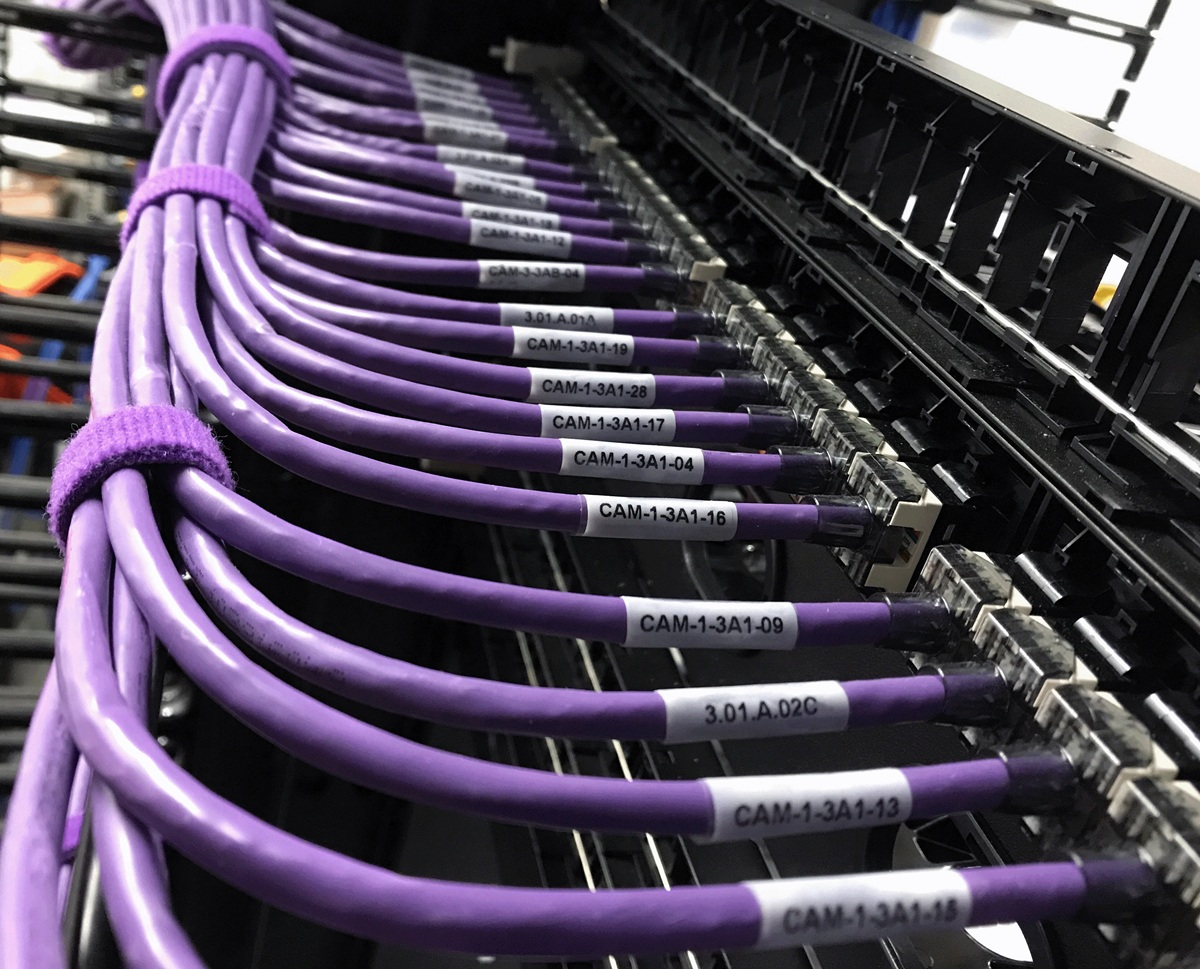
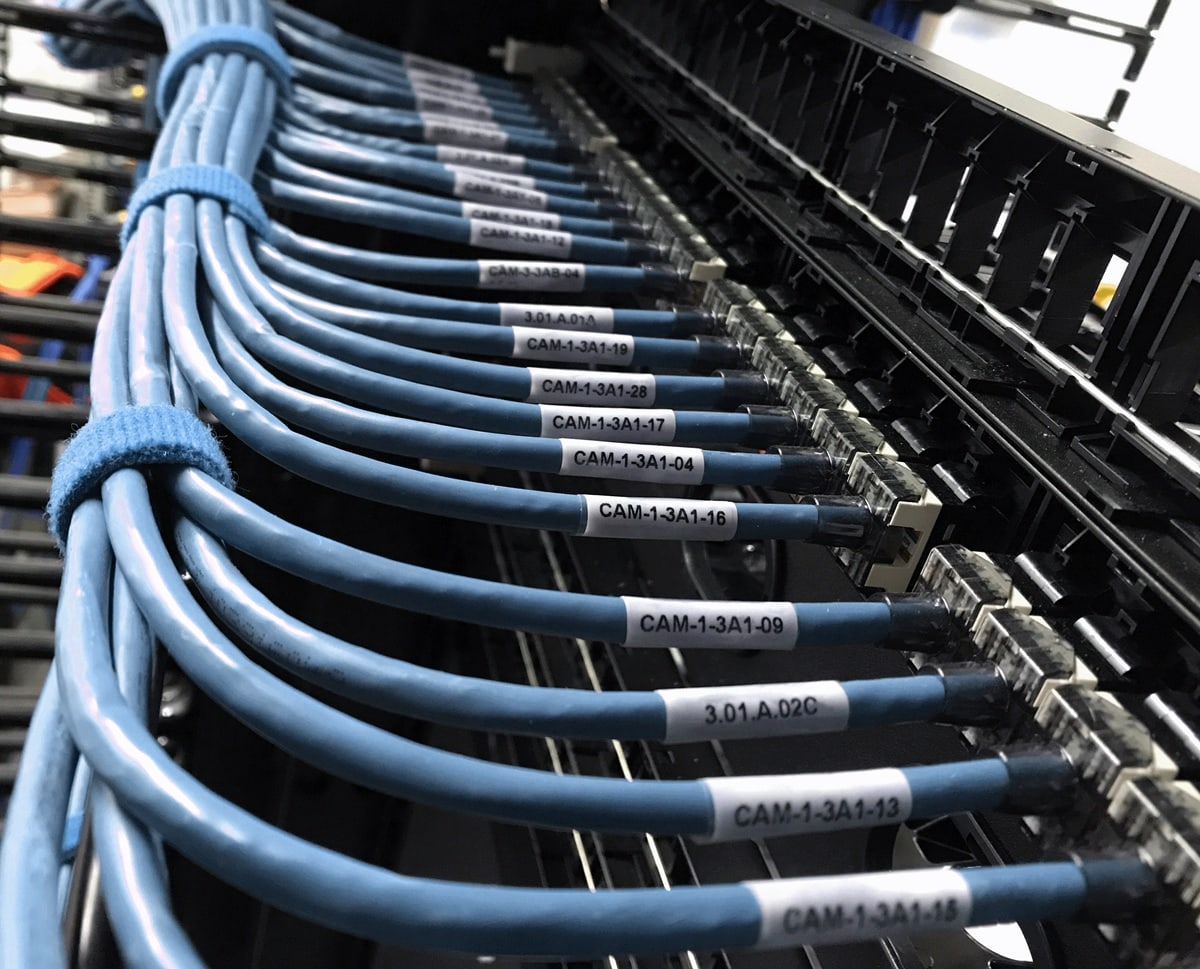
Hero: lobby camera view; cabling photo recolored to brand blue

diff --git a/src/components/Hero.tsx b/src/components/Hero.tsx
@@ -86,14 +86,19 @@ export default function Hero() {
           <figure className="relative rounded-xl overflow-hidden bg-brand-panel ring-1 ring-white/10 shadow-2xl shadow-black/50">
             <div className="relative aspect-[16/10] w-full max-w-full">
               <Image
-                src="/Assets/surv4.png"
-                alt="Dome security camera installed in a commercial building"
+                src="/Assets/hero-lobby.jpg"
+                alt="Security camera view of an apartment building lobby"
                 fill
                 priority
-                className="object-cover object-[70%_center] saturate-[0.85]"
+                className="object-cover object-center saturate-[0.9]"
                 sizes="(max-width: 1024px) 100vw, 50vw"
               />
-              <div aria-hidden="true" className="absolute inset-0 bg-brand-navy/25 mix-blend-multiply" />
+              <div aria-hidden="true" className="absolute inset-0 bg-brand-navy/15 mix-blend-multiply" />
+              {/* Darken top/bottom edges so the HUD reads over the chairs and ceiling */}
+              <div
+                aria-hidden="true"
+                className="absolute inset-0 bg-gradient-to-b from-brand-dark/35 via-transparent via-30% to-brand-dark/45"
+              />
               <div aria-hidden="true" className="absolute inset-0 scanlines" />
               <div aria-hidden="true" className="absolute inset-3 sm:inset-4 feed-corners opacity-80" />
 

diff --git a/CLAUDE.md b/CLAUDE.md
@@ -37,7 +37,7 @@ Site institucional da **DTX Solution** — empresa de tecnologia, segurança e T
 ├── public/
 │   └── Assets/                  # Imagens e logos
 │       ├── logo_2025_Icon.png   # Ícone transparente (usado em navbar e footer)
-│       ├── surv4.png            # Card de câmeras de segurança
+│       ├── hero-lobby.jpg       # Hero: visão de câmera do lobby (IA)
 │       ├── tv_orbis.png         # Card Orbis
 │       ├── coding.png           # Card desenvolvimento web
 │       ├── Intercom.png         # Card intercomunicação
@@ -161,10 +161,10 @@ nav, hero (specs[], feed), services.items[], process.steps[], trust (items[], st
 ## Serviços (ordem de exibição)
 
 ### Linha superior — cards featured (lado a lado, lg:grid-cols-2)
-1. **Security Cameras** (id: `cameras`) — tema azul, imagem `surv4.png`
+1. **Security Cameras** (id: `cameras`) — tema azul, imagem `surv2.png`
 2. **Orbis for Buildings** (id: `orbis`) — tema aço (`brand.mist`), imagem `tv_orbis.png`, badge "Subscription"
 
-(Cameras usa `surv2.png`; o Hero usa `surv4.png` como "feed de câmera" com HUD.)
+(O Hero usa `hero-lobby.jpg` (IA) como "feed de câmera" com HUD. `cabling.jpg` teve os cabos recoloridos de roxo para azul.)
 
 ### Lista de especificações (miniatura + ícone + descrição + chips)
 3. **Structured Cabling** (id: `cabling`) — miniatura `cabling.jpg`
